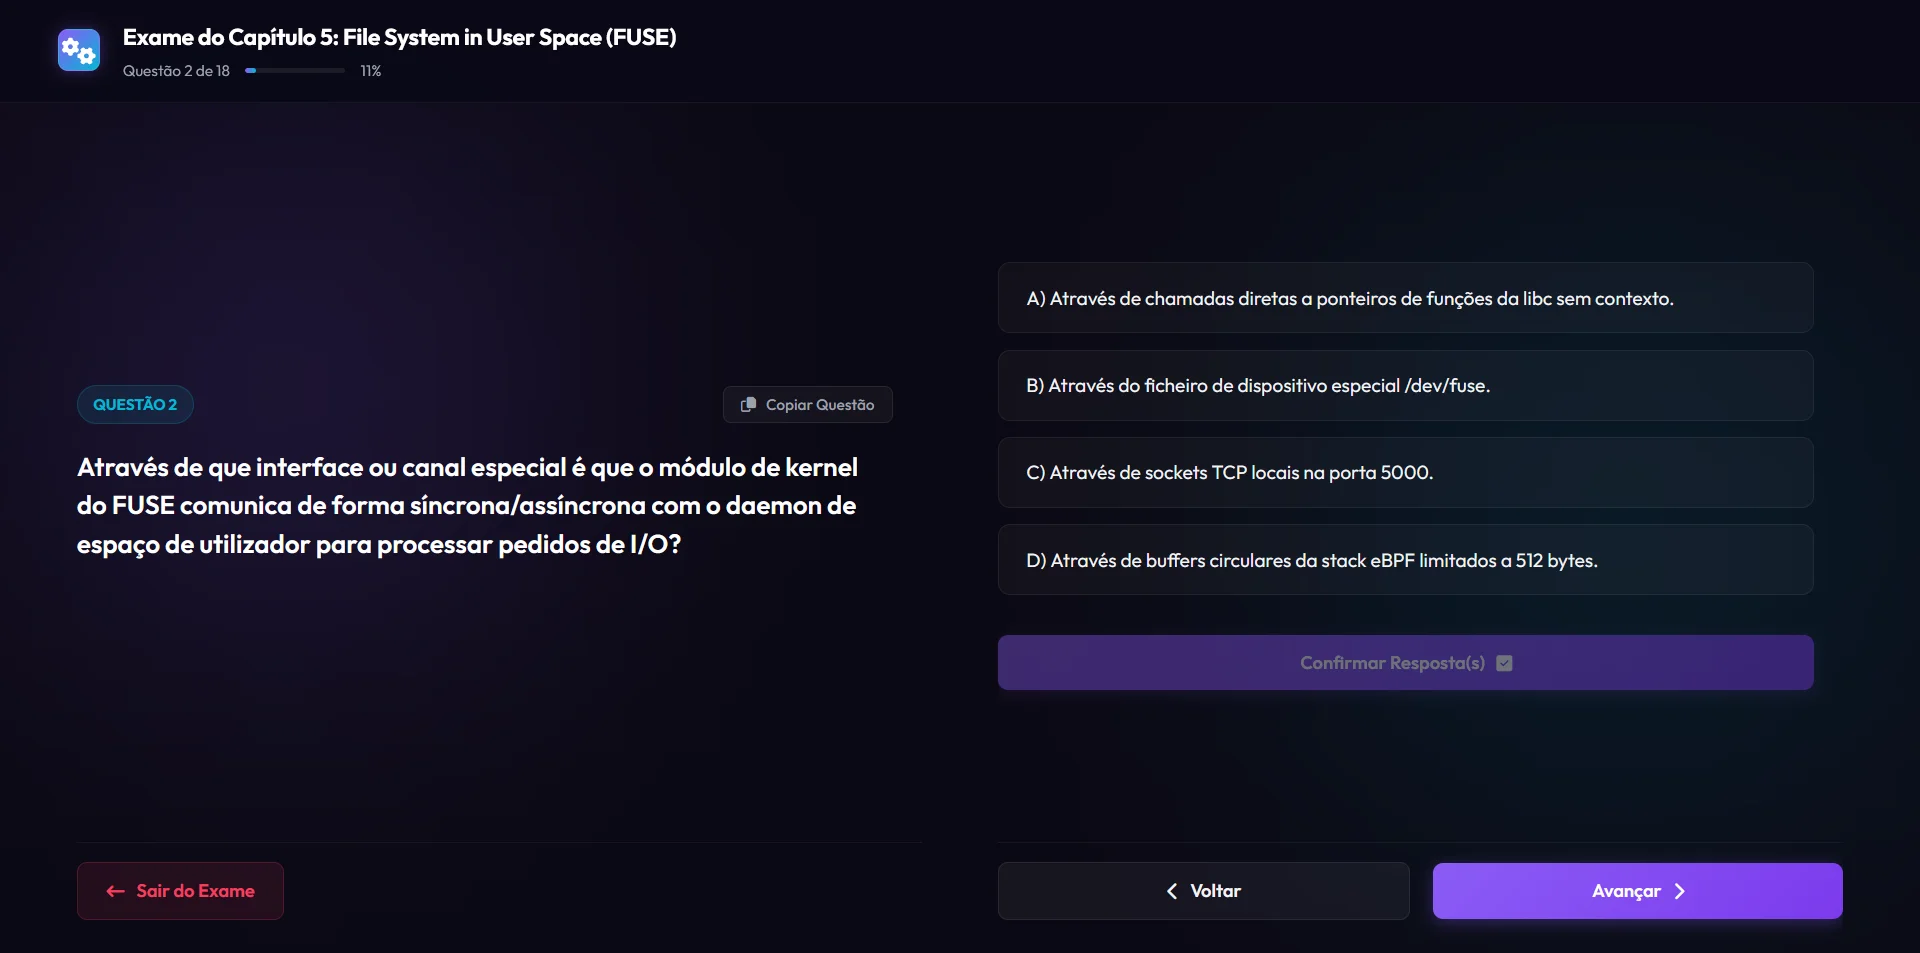
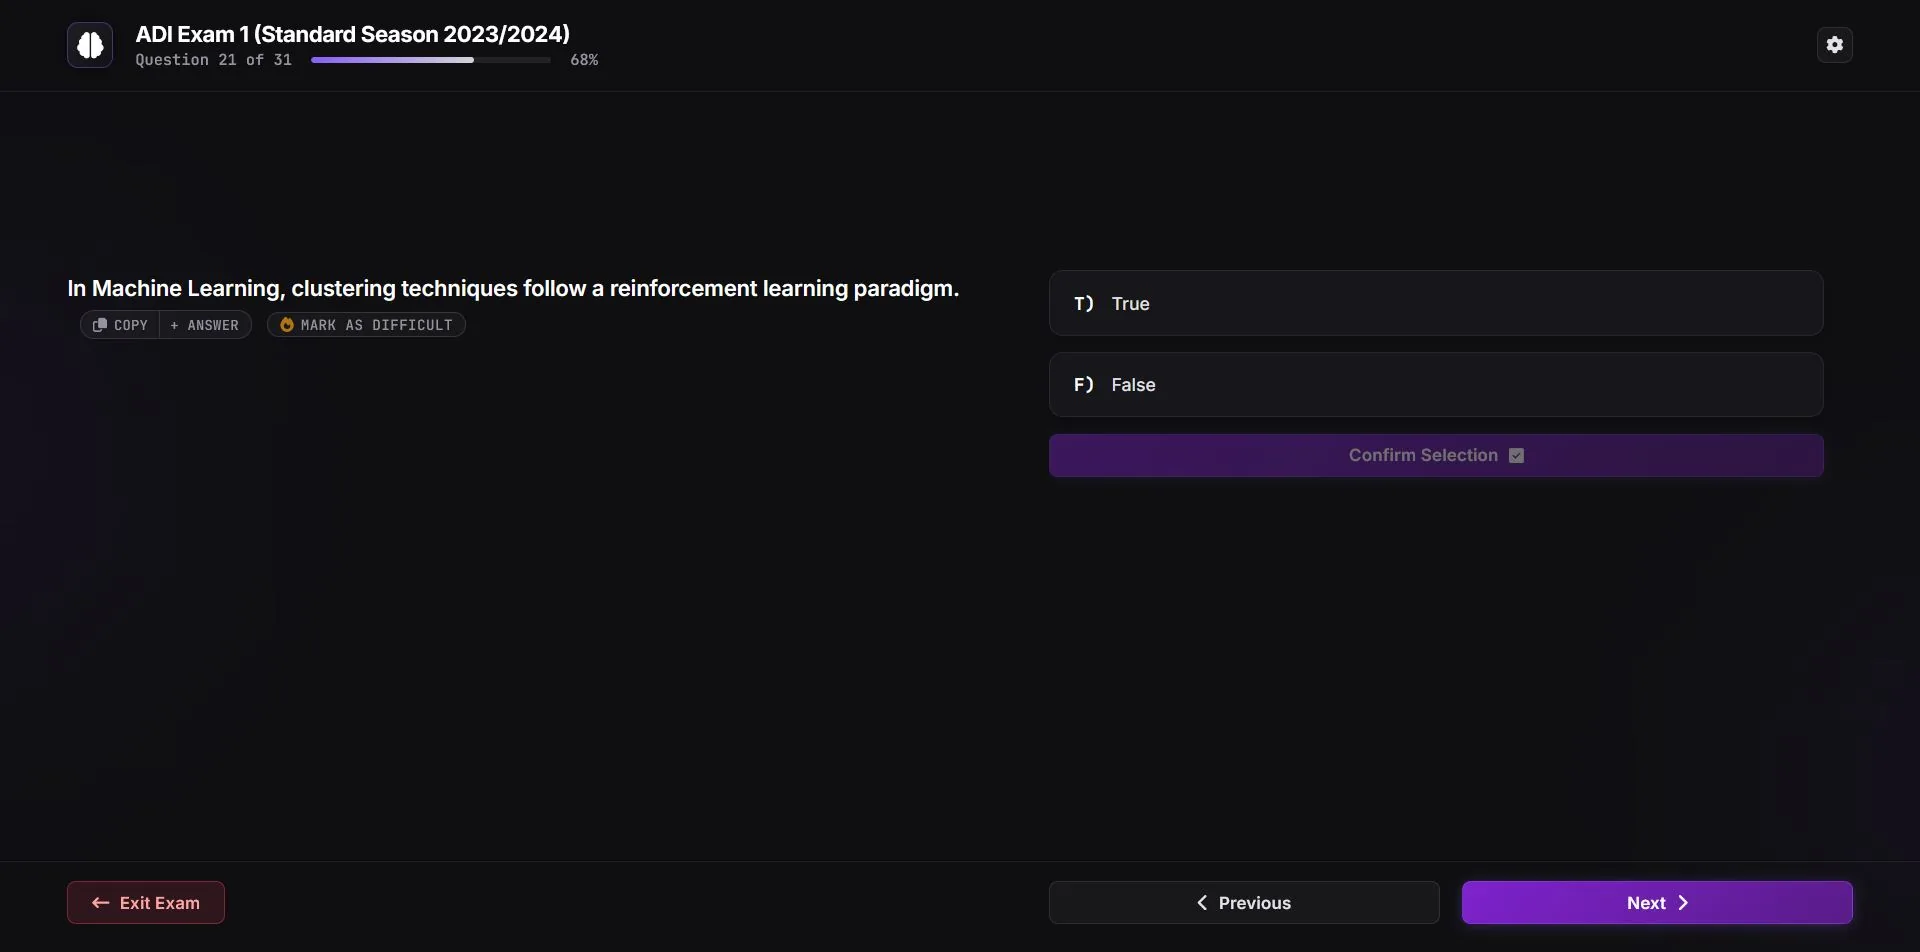
feat: updated photos

diff --git a/src/pages/Projects.jsx b/src/pages/Projects.jsx
@@ -4,7 +4,8 @@ import { ProjectImageLayout } from '../components/ProjectImageLayout';
 import { CONFIG } from '../config';
 
 // Images for Exam Preparation
-import examMakingImg from '../../assets/projects/exam_preparation/making_exam.webp';
+import examSubjectImg from '../../assets/projects/exam_preparation/subjectchoosing.webp';
+import examChoosingImg from '../../assets/projects/exam_preparation/examchoosing.webp';
 import examQuestionImg from '../../assets/projects/exam_preparation/question.webp';
 
 // Images for Fleet Simulator
@@ -26,8 +27,8 @@ const PROJECTS_DATA = [
   {
     title: "Exam Preparation Platform",
     description: "A software engineering exam preparation platform, built to optimize studying with interactive tests and performance analysis.",
-    images: [examMakingImg, examQuestionImg],
-    layout: 'side-by-side',
+    images: [examSubjectImg, examChoosingImg, examQuestionImg],
+    layout: 'carousel',
     aspectRatio: 'landscape',
     link: "https://herculano-esteves.github.io/examPreparation/"
   },

diff --git a/vite.config.js b/vite.config.js
@@ -4,5 +4,6 @@ import react from '@vitejs/plugin-react';
 // https://vitejs.dev/config/
 export default defineConfig({
   plugins: [react()],
+  assetsInclude: ['**/*.JPG', '**/*.JPEG'],
   base: '/',
 });

diff --git a/convert_to_webp.py b/convert_to_webp.py
@@ -1,0 +1,116 @@
+#!/usr/bin/env python3
+"""
+convert_to_webp.py — Image Optimization Utility
+
+Converts JPG, JPEG, and PNG images to modern WebP format using Pillow.
+Reduces file sizes significantly while maintaining visual fidelity.
+
+Usage:
+    python convert_to_webp.py [directory_or_file] [--quality 82] [--remove-source]
+
+Examples:
+    python convert_to_webp.py assets/projects/exam_preparation
+    python convert_to_webp.py assets/projects/exam_preparation --remove-source
+"""
+
+import os
+import sys
+import argparse
+from PIL import Image
+
+SUPPORTED_EXTENSIONS = ('.jpg', '.jpeg', '.png')
+
+def convert_image(input_path: str, quality: int = 82, remove_source: bool = False) -> tuple[int, int] | None:
+    """Converts a single image to WebP format."""
+    ext = os.path.splitext(input_path)[1].lower()
+    if ext not in SUPPORTED_EXTENSIONS or ext == '.webp':
+        return None
+
+    dir_name = os.path.dirname(input_path)
+    base_name = os.path.splitext(os.path.basename(input_path))[0]
+    
+    # Clean naming: lowercase and snake_case if CamelCase
+    output_filename = f"{base_name}.webp"
+    output_path = os.path.join(dir_name, output_filename)
+
+    orig_size = os.path.getsize(input_path)
+
+    try:
+        with Image.open(input_path) as img:
+            # Handle RGBA/transparency for PNGs, convert to RGB if needed
+            if img.mode in ('RGBA', 'LA') and ext != '.png':
+                background = Image.new('RGB', img.size, (255, 255, 255))
+                background.paste(img, mask=img.split()[-1])
+                img = background
+            elif img.mode == 'P':
+                img = img.convert('RGBA')
+
+            img.save(output_path, 'WEBP', quality=quality, method=6)
+
+        new_size = os.path.getsize(output_path)
+        saved_pct = (1.0 - (new_size / orig_size)) * 100.0 if orig_size > 0 else 0.0
+
+        print(f"[OK] Converted: {os.path.basename(input_path)} -> {output_filename}")
+        print(f"     Size: {orig_size / 1024:.1f} KB -> {new_size / 1024:.1f} KB ({saved_pct:.1f}% saved)")
+
+        if remove_source and os.path.abspath(input_path) != os.path.abspath(output_path):
+            os.remove(input_path)
+            print(f"     Removed source: {os.path.basename(input_path)}")
+
+        return orig_size, new_size
+
+    except Exception as e:
+        print(f"[ERROR] Failed to convert {input_path}: {e}", file=sys.stderr)
+        return None
+
+def process_path(target_path: str, quality: int, remove_source: bool):
+    """Processes a file or recursively scans a directory for images."""
+    if not os.path.exists(target_path):
+        print(f"Error: Path '{target_path}' not found.", file=sys.stderr)
+        sys.exit(1)
+
+    total_orig = 0
+    total_new = 0
+    count = 0
+
+    if os.path.isfile(target_path):
+        res = convert_image(target_path, quality, remove_source)
+        if res:
+            total_orig += res[0]
+            total_new += res[1]
+            count += 1
+    else:
+        for root, _, files in os.walk(target_path):
+            for file in sorted(files):
+                if file.lower().endswith(SUPPORTED_EXTENSIONS) and not file.lower().endswith('.webp'):
+                    full_path = os.path.join(root, file)
+                    res = convert_image(full_path, quality, remove_source)
+                    if res:
+                        total_orig += res[0]
+                        total_new += res[1]
+                        count += 1
+
+    if count > 0:
+        total_saved_pct = (1.0 - (total_new / total_orig)) * 100.0 if total_orig > 0 else 0.0
+        print("-" * 50)
+        print(f"Converted {count} images.")
+        print(f"Total size: {total_orig / 1024:.1f} KB -> {total_new / 1024:.1f} KB ({total_saved_pct:.1f}% saved)")
+    else:
+        print(f"No JPG/PNG images found to convert in '{target_path}'.")
+
+def main():
+    parser = argparse.ArgumentParser(description="Convert JPG/PNG images to modern WebP format.")
+    parser.add_argument(
+        'path', 
+        nargs='?', 
+        default='assets/projects/exam_preparation', 
+        help="Path to image file or directory (default: assets/projects/exam_preparation)"
+    )
+    parser.add_argument('--quality', type=int, default=82, help="WebP compression quality 1-100 (default: 82)")
+    parser.add_argument('--remove-source', action='store_true', help="Delete original JPG/PNG files after conversion")
+
+    args = parser.parse_args()
+    process_path(args.path, args.quality, args.remove_source)
+
+if __name__ == '__main__':
+    main()
